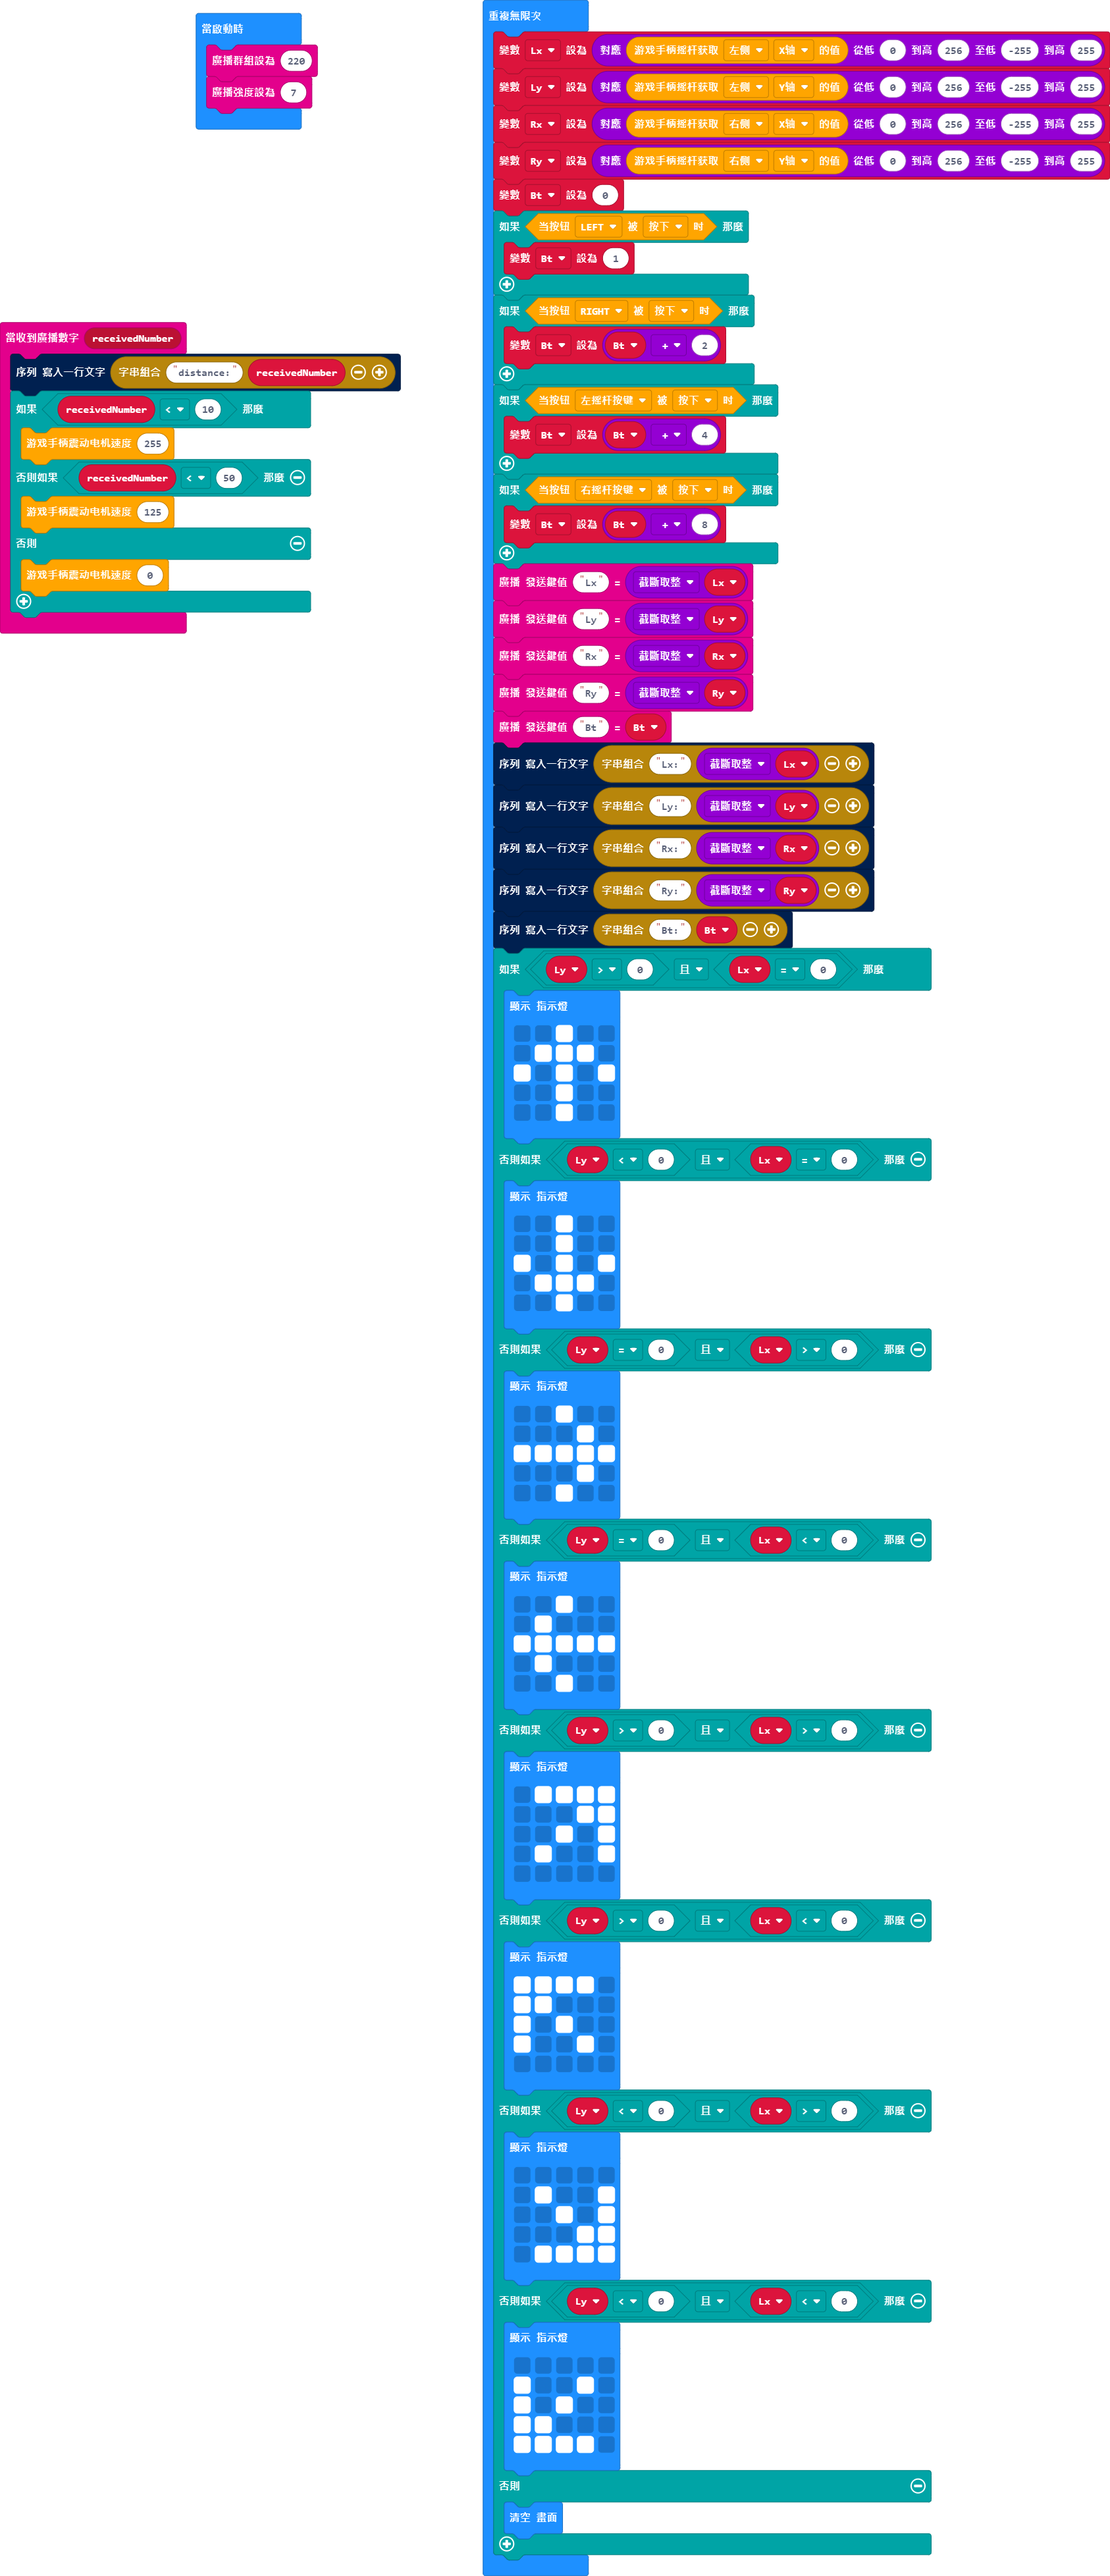
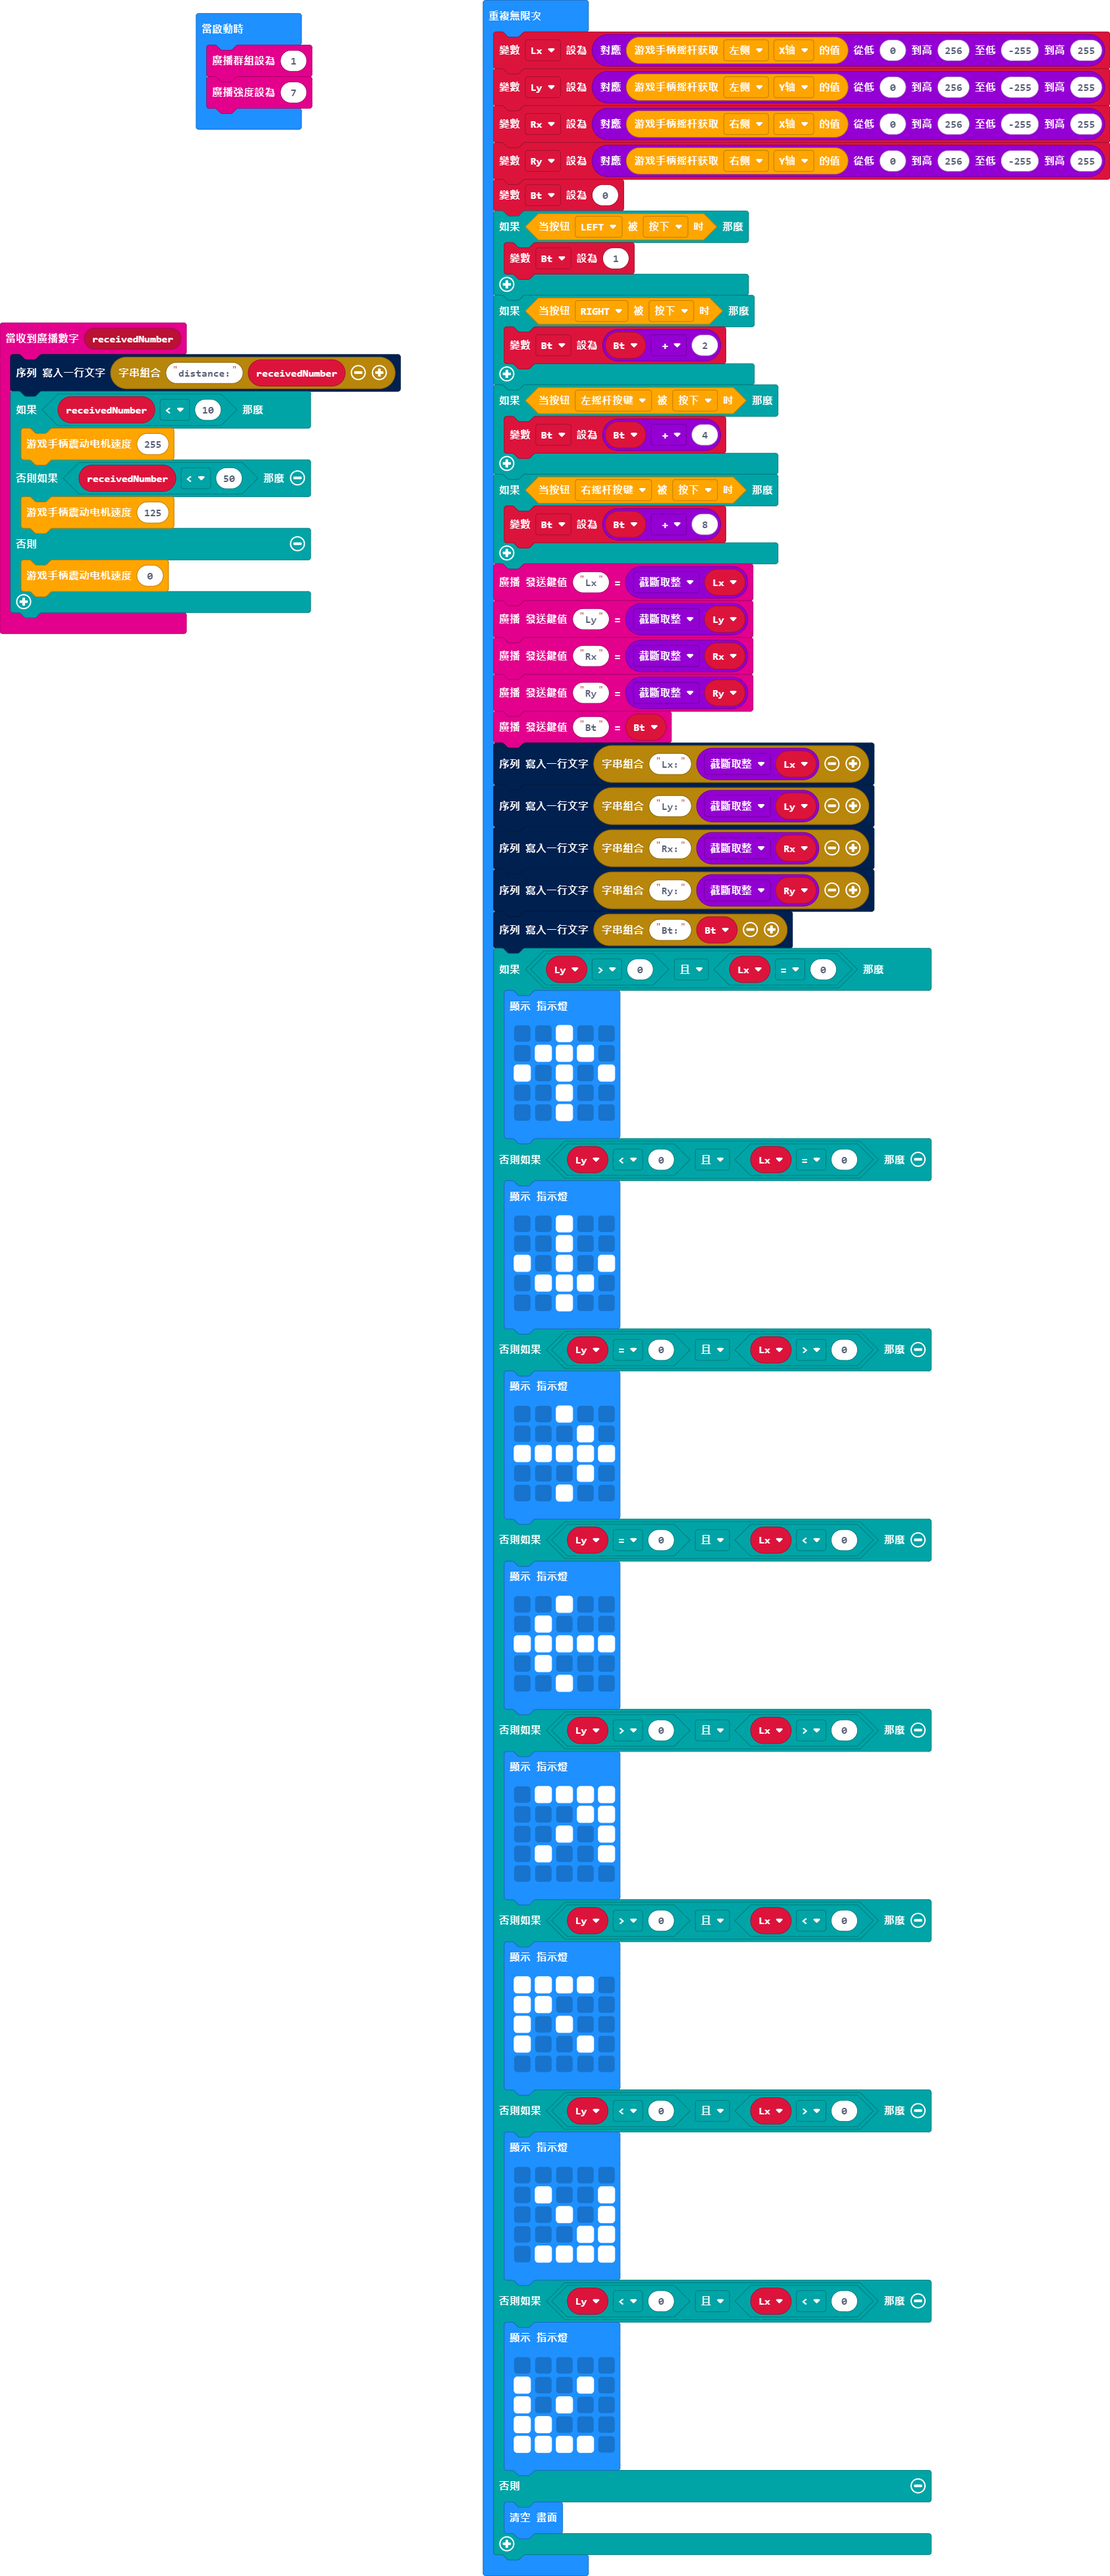
更新 main.blocks, main.ts

Changed region(s): [[0.0, 0.1247, 0.1851, 0.2495], [0.2467, 0.1247, 0.3084, 0.1559]]

diff --git a/main.ts b/main.ts
@@ -13,7 +13,7 @@ let Ry = 0
 let Rx = 0
 let Ly = 0
 let Lx = 0
-radio.setGroup(220)
+radio.setGroup(1)
 radio.setTransmitPower(7)
 basic.forever(function () {
     Lx = Math.map(joystick.Gamepad_Wiggly(Wiggly.JOYSTICK_left_wi, Shaft.JOYSTICK_X_Shaft), 0, 256, -255, 255)
